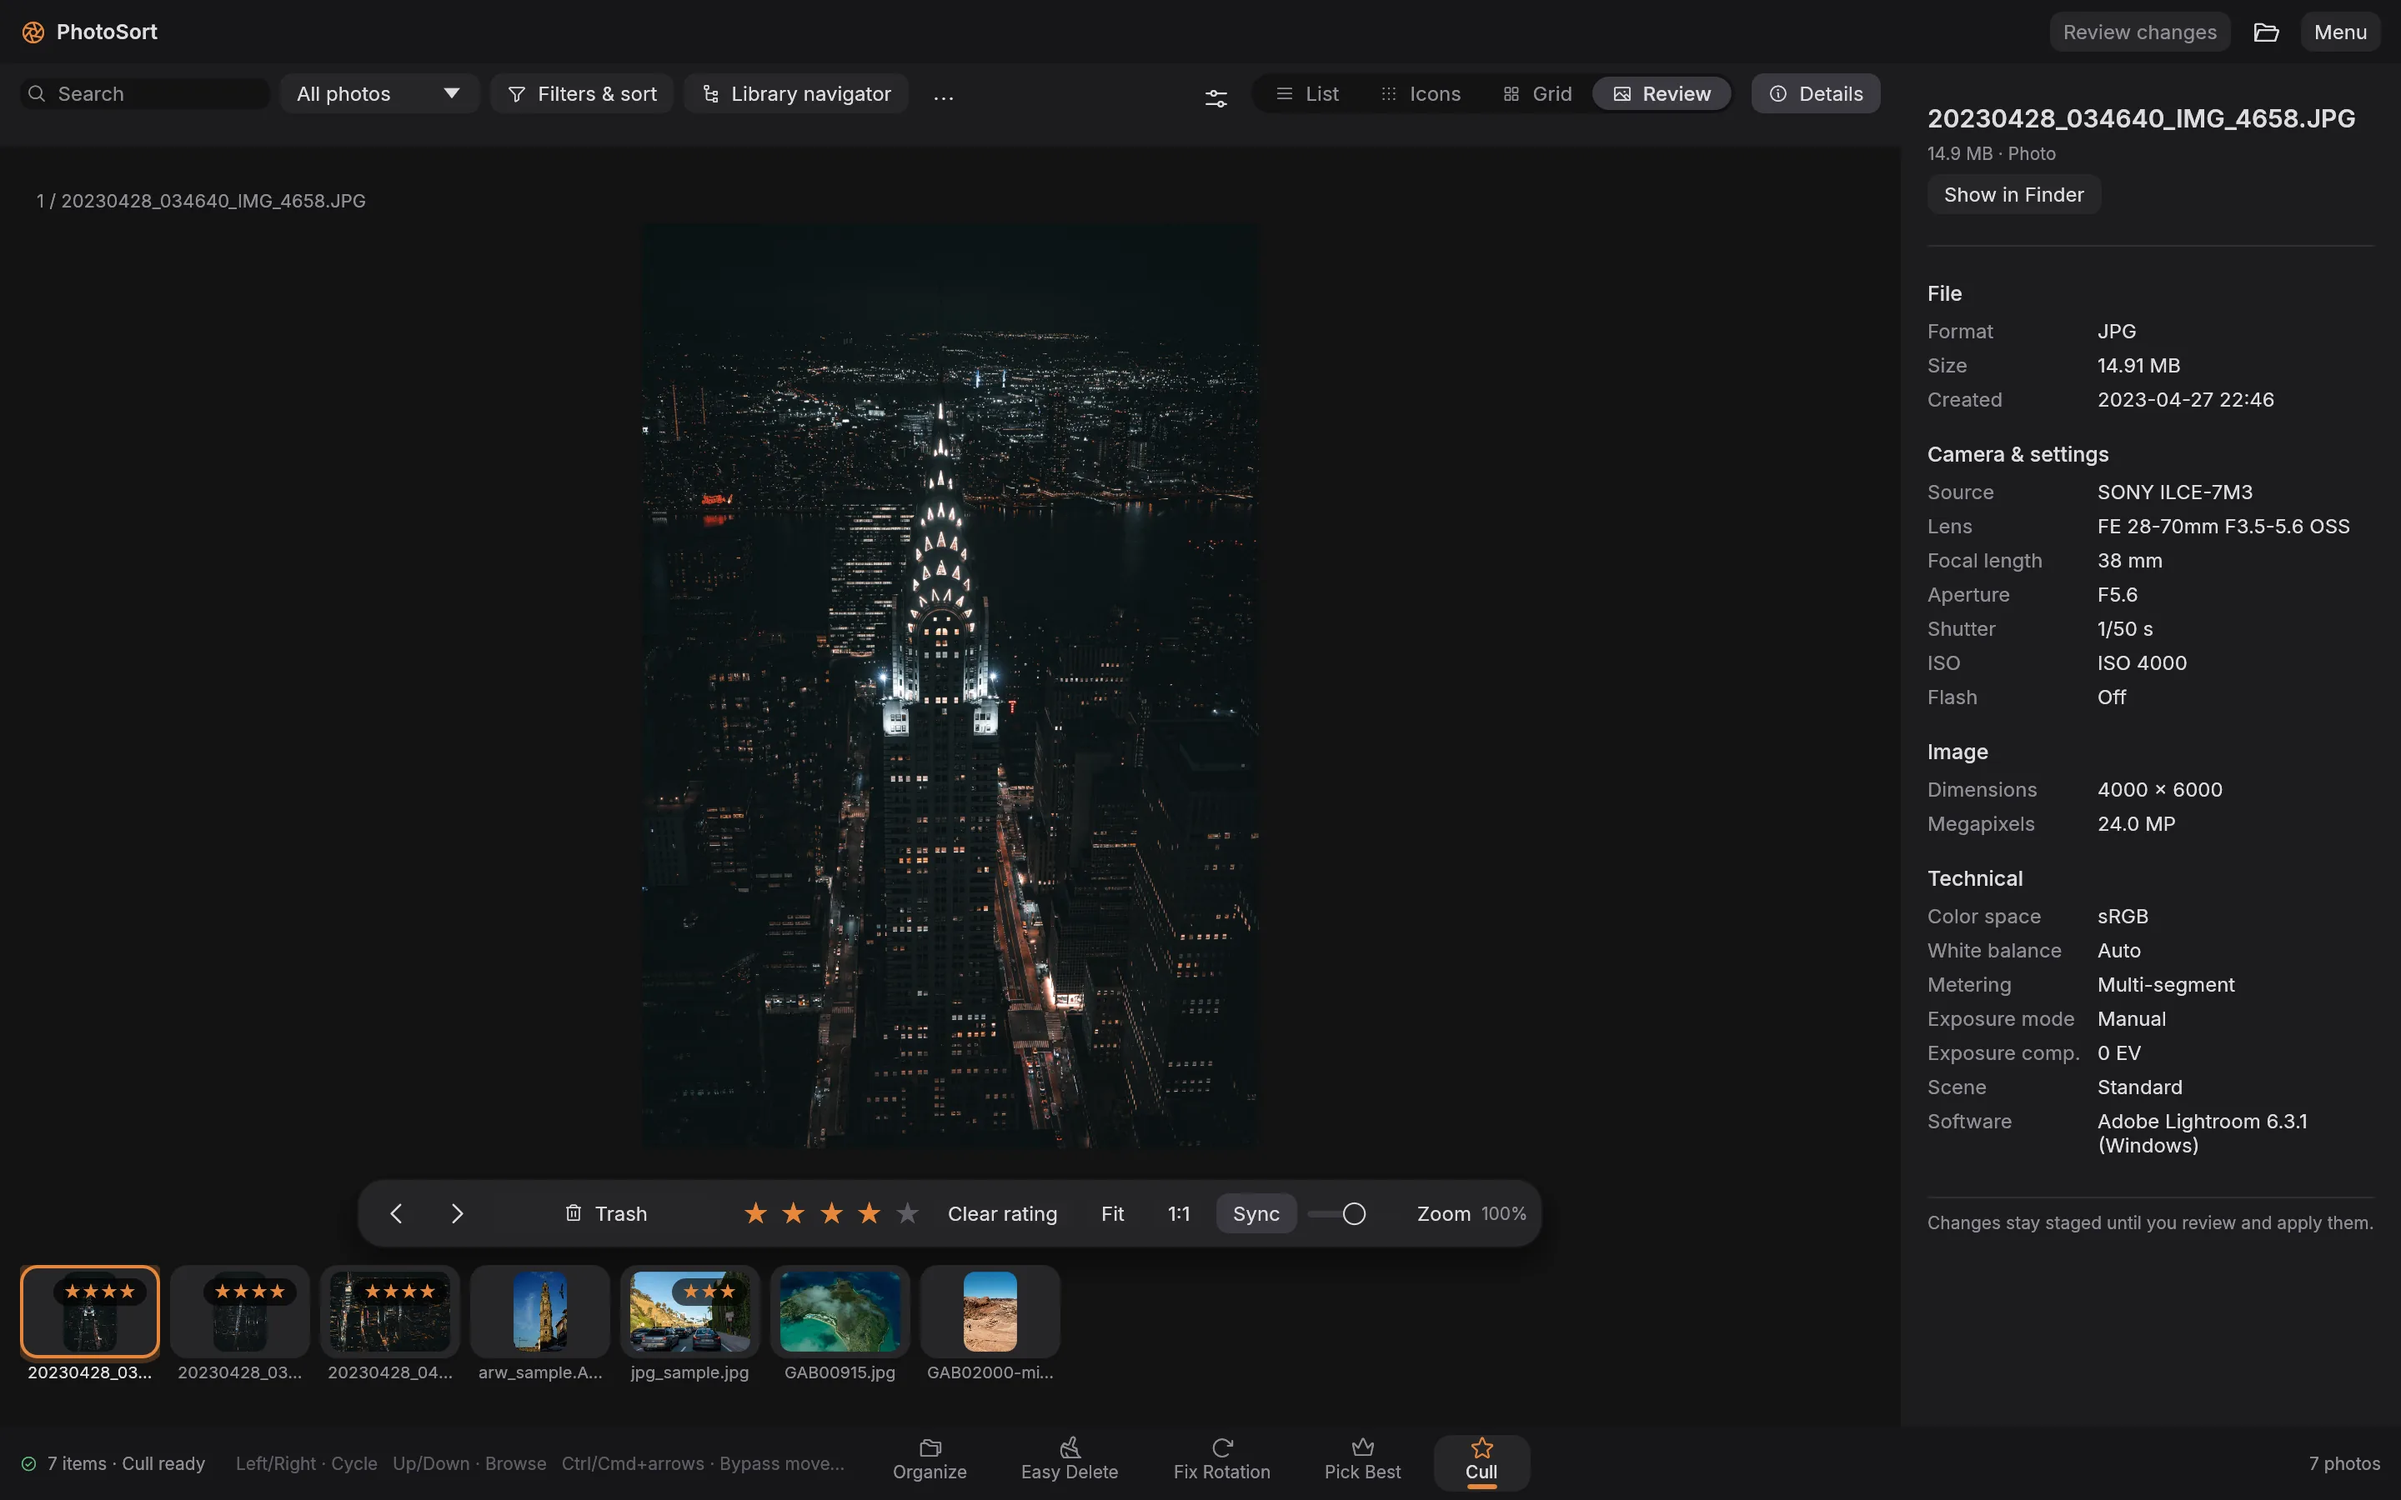
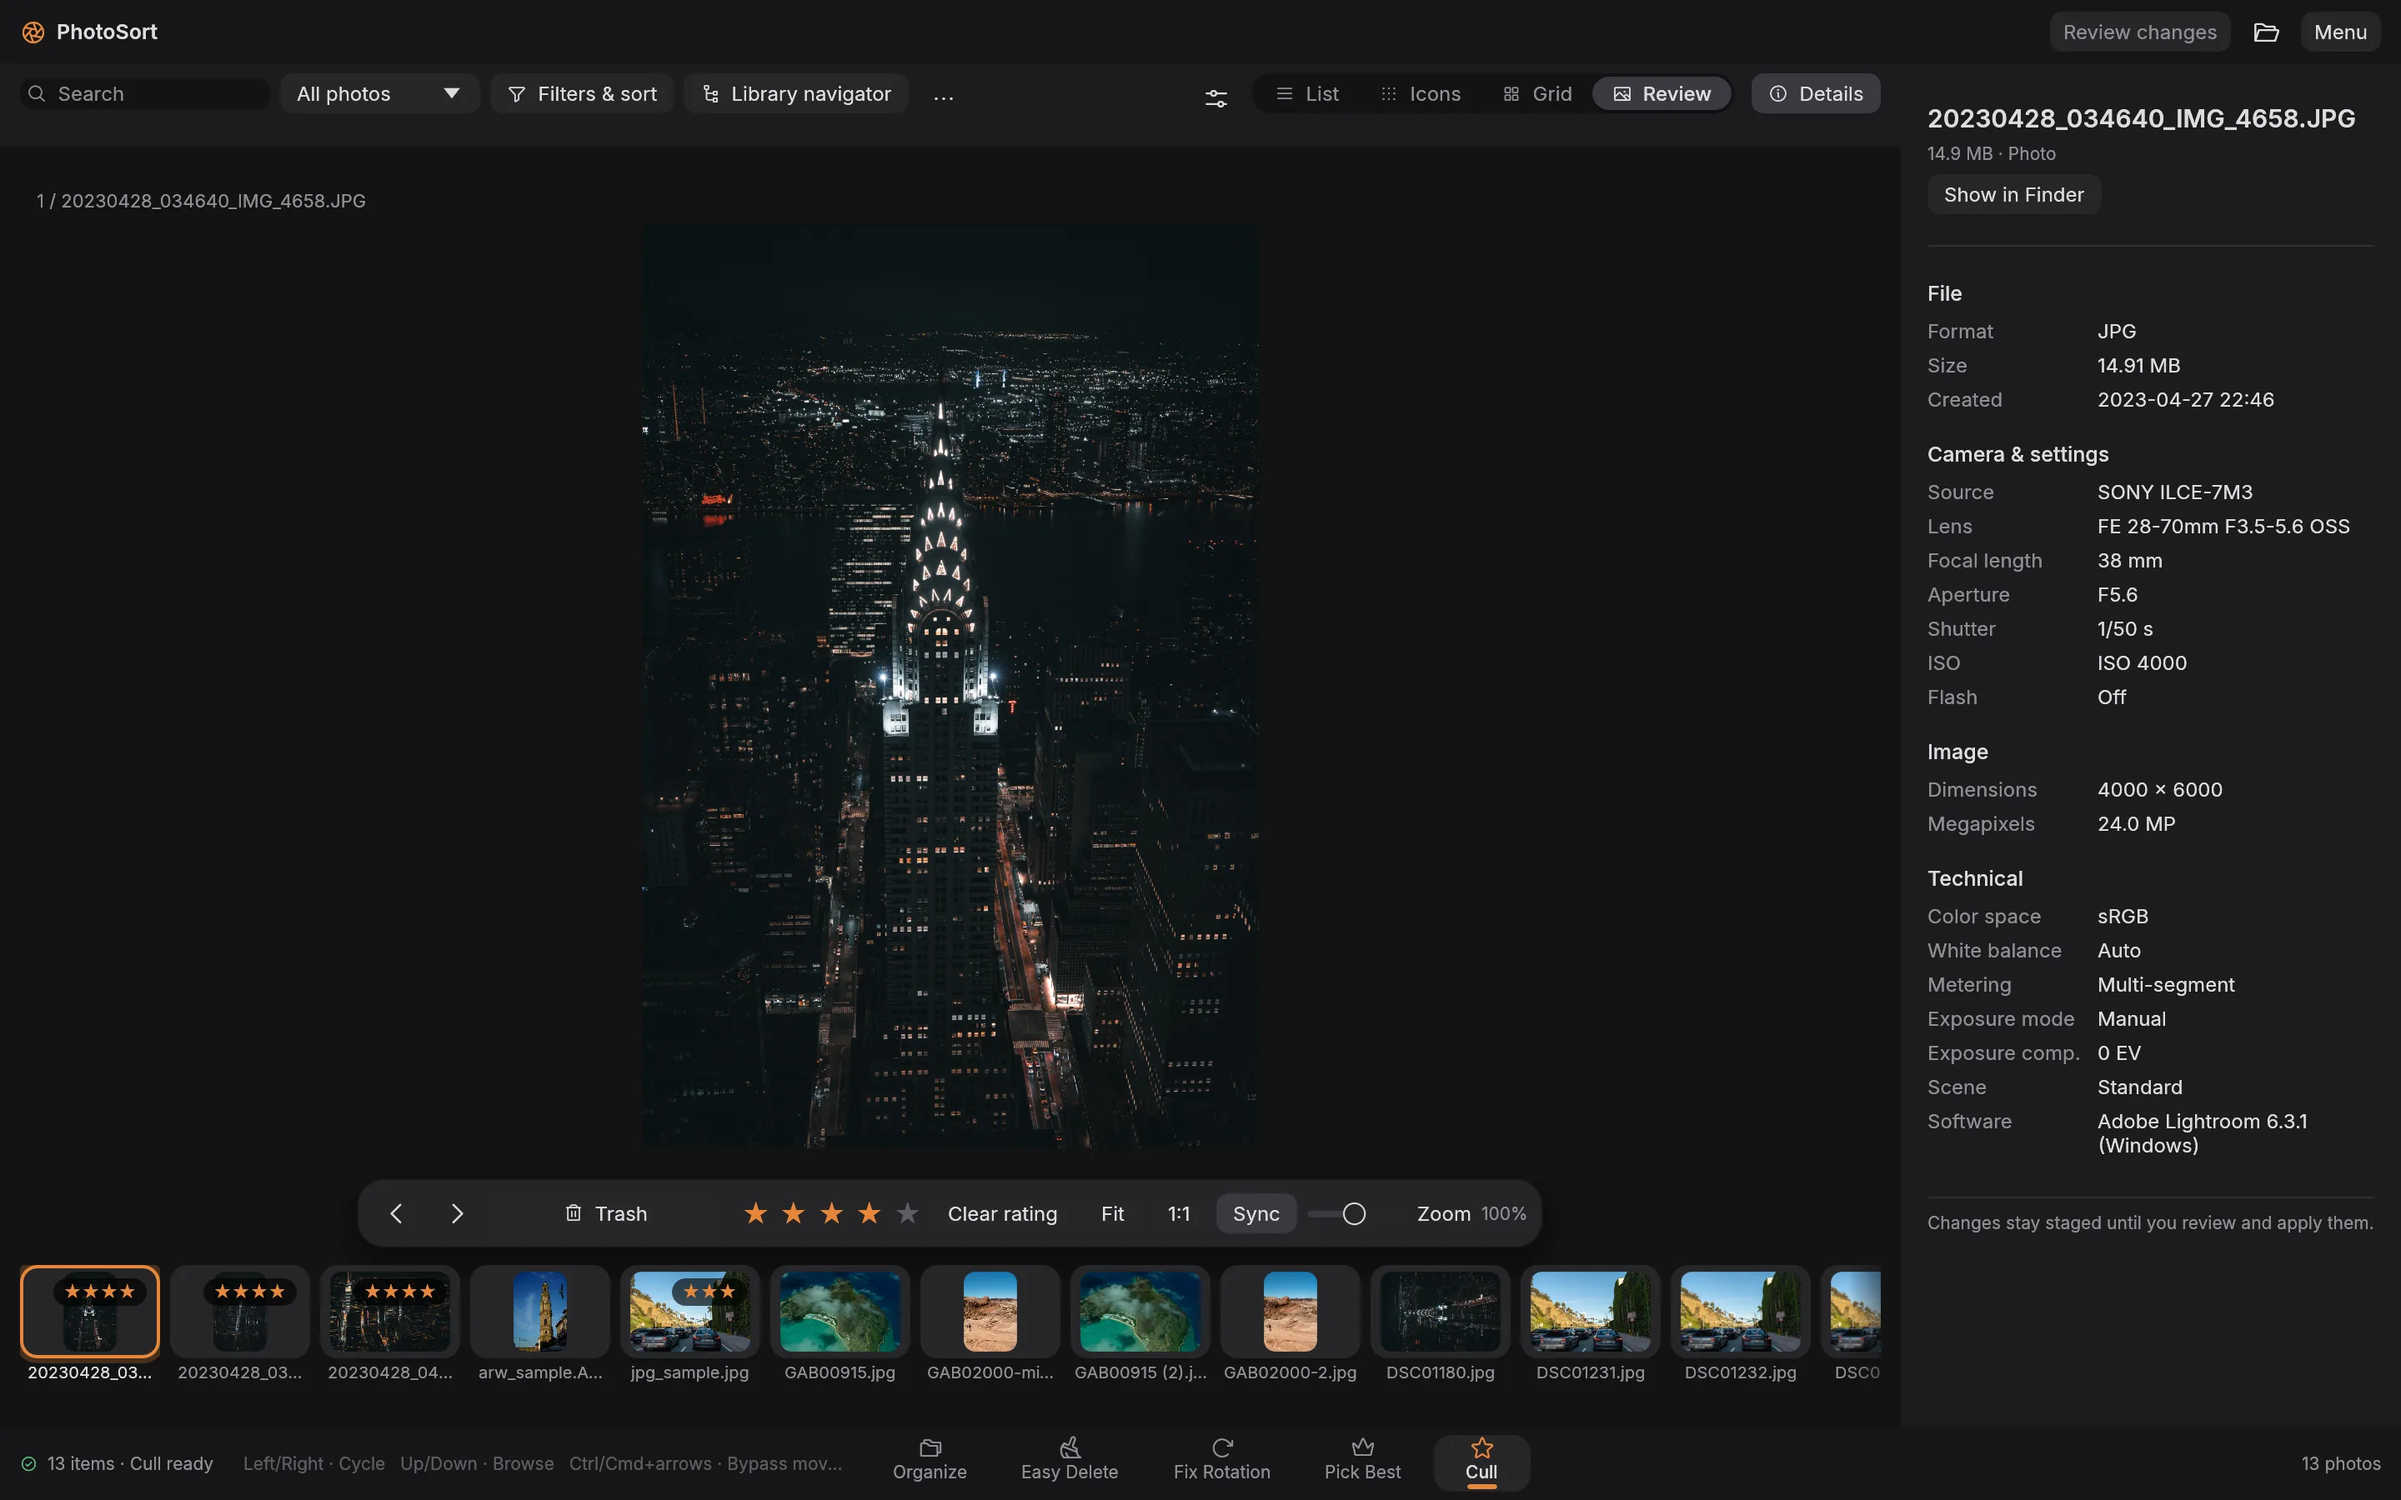
Update README screenshots and describe the AI execution options
Replace the Easy Delete, Fix Rotation and Pick Best screenshots with the new demo scenes, and explain that Settings → AI execution offers Automatic, Core ML, CUDA and DirectML with CPU fallback.

Changed region(s): [[0.4375, 0.84, 0.7812, 0.9333], [0.0312, 0.9644, 0.3438, 0.9956], [0.5938, 0.9022, 0.625, 0.9333]]

diff --git a/README.md b/README.md
@@ -133,7 +133,9 @@ is needed. You can also use every step by hand, without AI.
 
 **Menu → AI models** shows which models are installed and downloads or imports the missing
 ones, verifying every file. Nothing is downloaded automatically. Models run on the CPU by
-default; on a Mac, Settings can switch them to Apple's Core ML acceleration.
+default. **Settings → AI execution → Automatic** uses Apple's Core ML on a Mac, or NVIDIA
+CUDA and then DirectML on Windows (CUDA on Linux), whenever they are available, and falls
+back to the CPU otherwise. You can also pick one of them directly.
 
 ## Build from source
 
